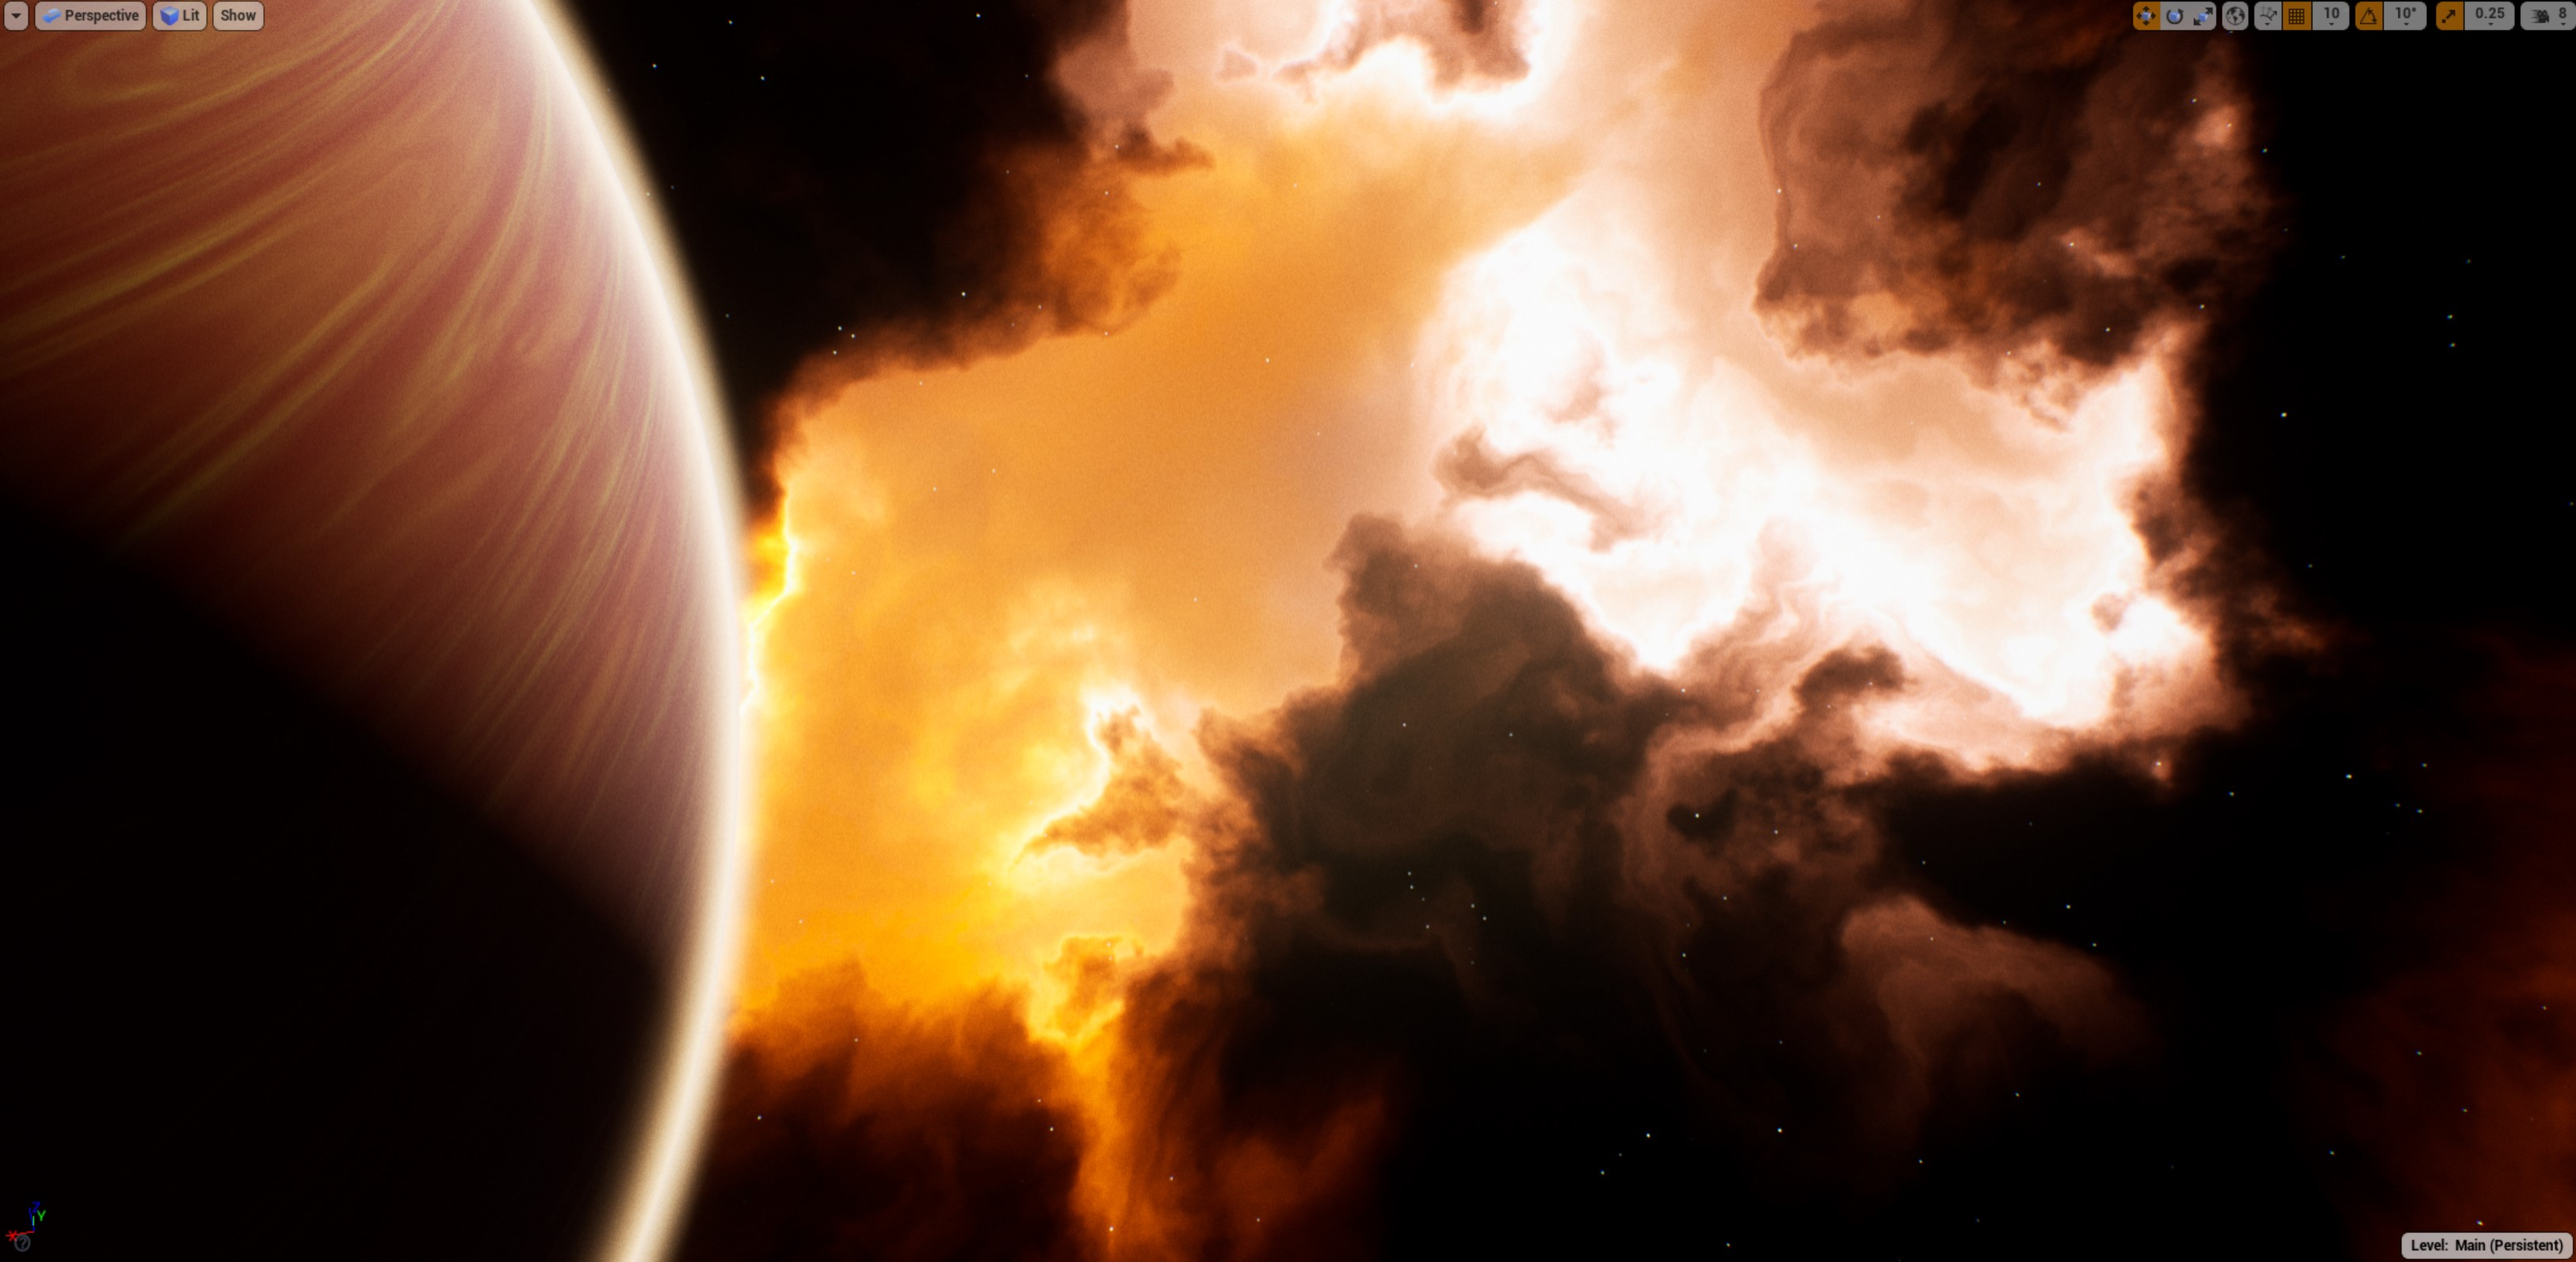
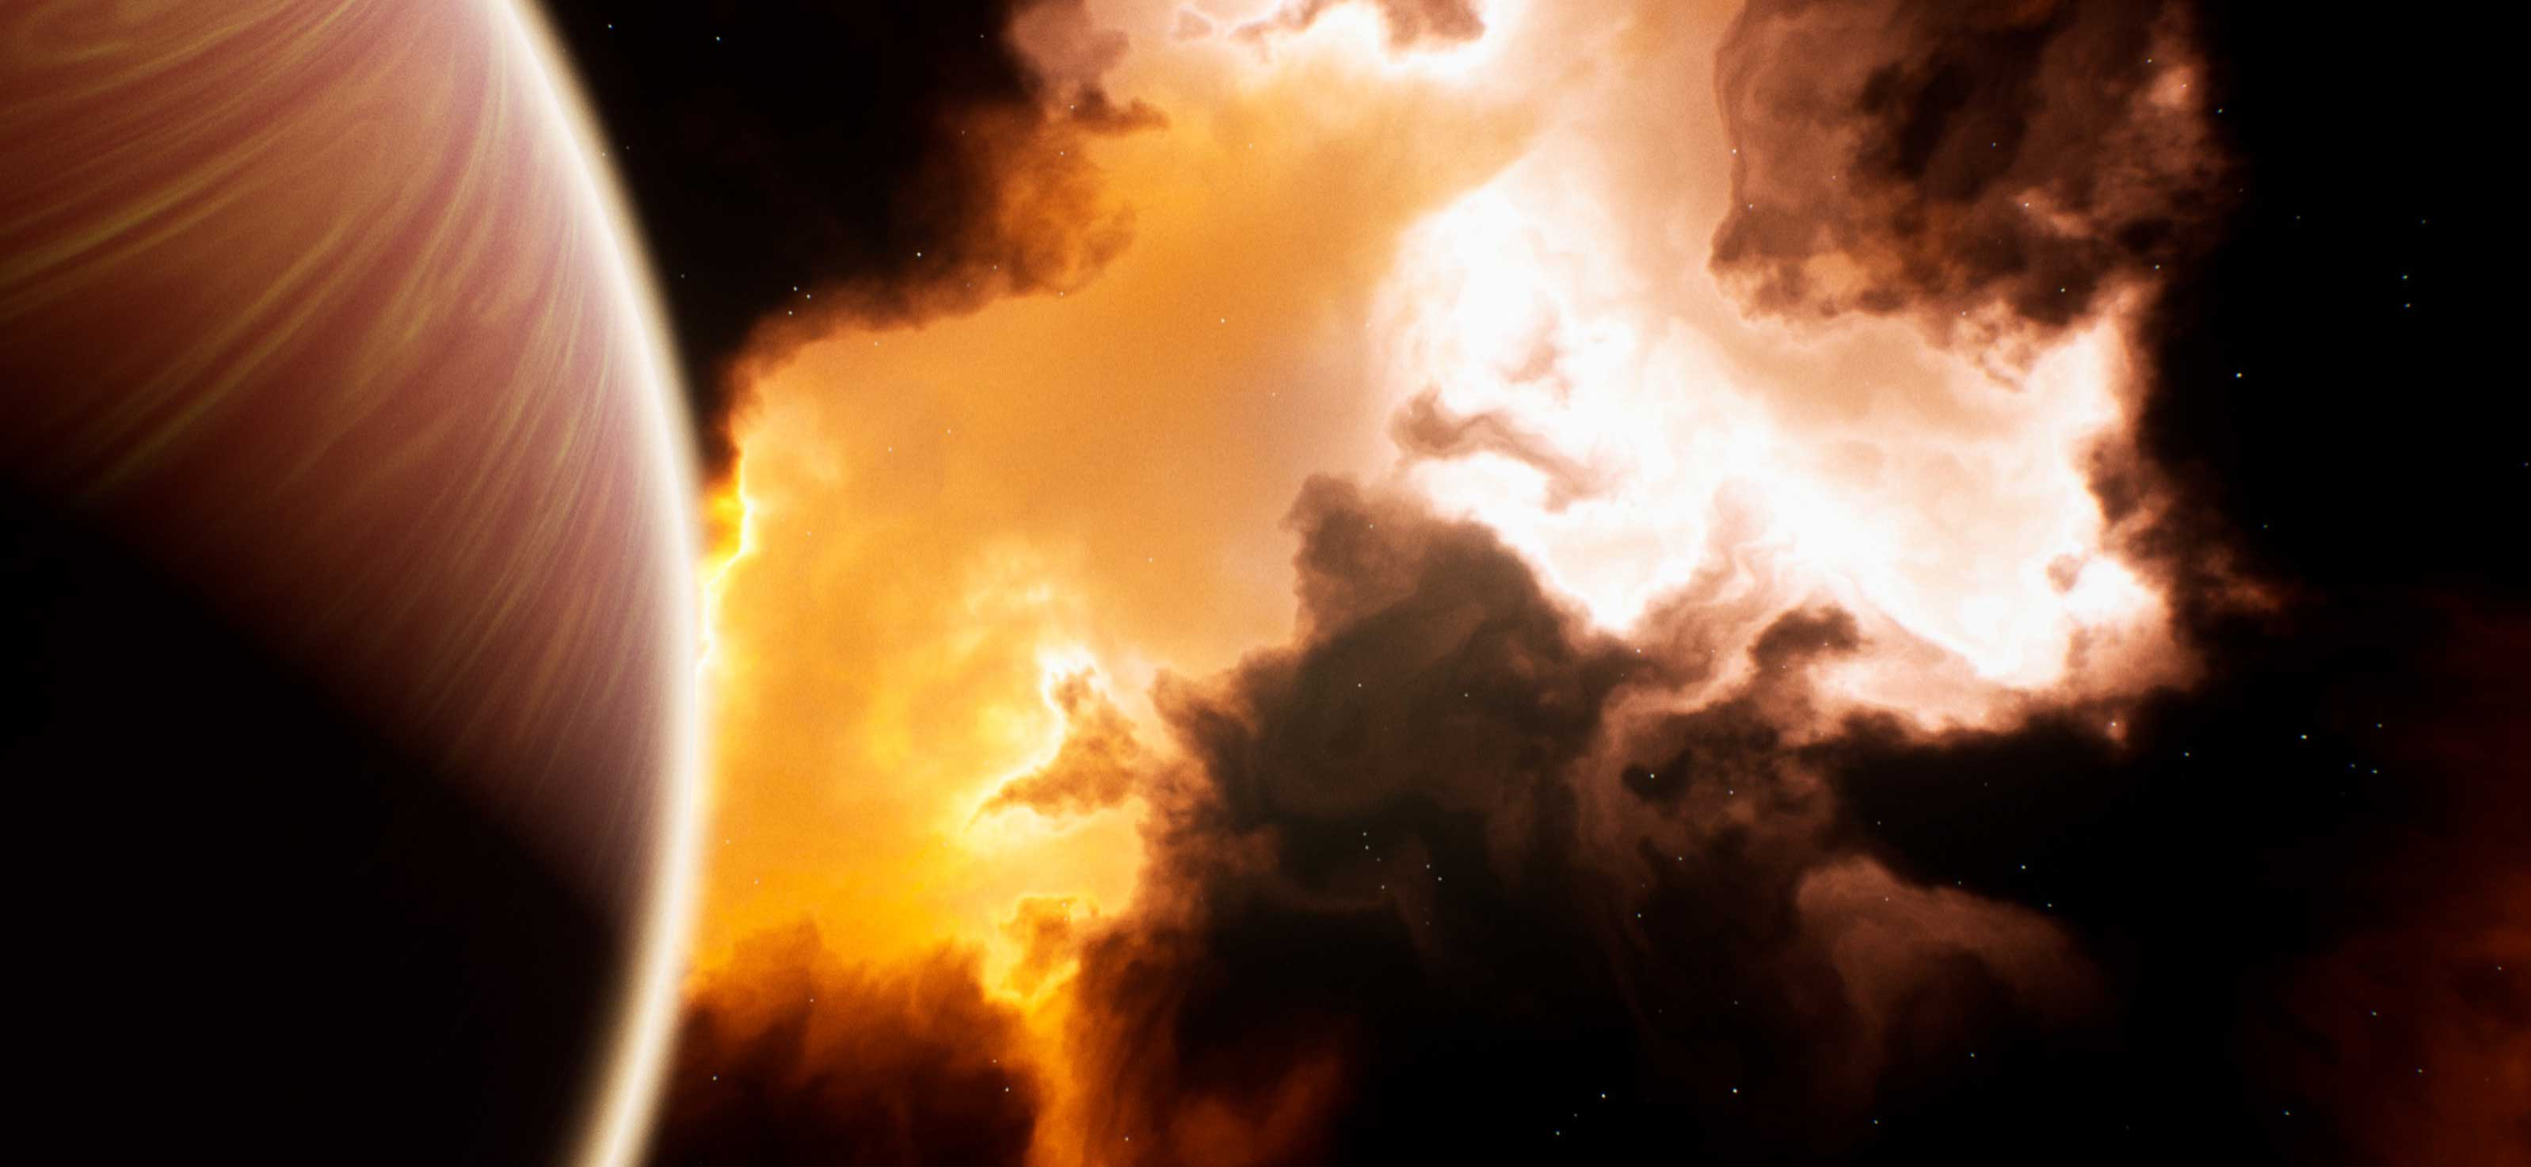
Images Tweak

diff --git a/index.html b/index.html
@@ -32,7 +32,7 @@
 			
 				<ul class="slides">
 					<li class="background-parallax">
-						<img alt="Slider Background" class="background-image" src="img/videoframe.jpg">
+						<img alt="Slider Background" class="background-image" src="img/ScreenShotNebula.jpg">
 						
 						<div class="video-wrapper">
 							<video autoplay="" muted="" loop="">
